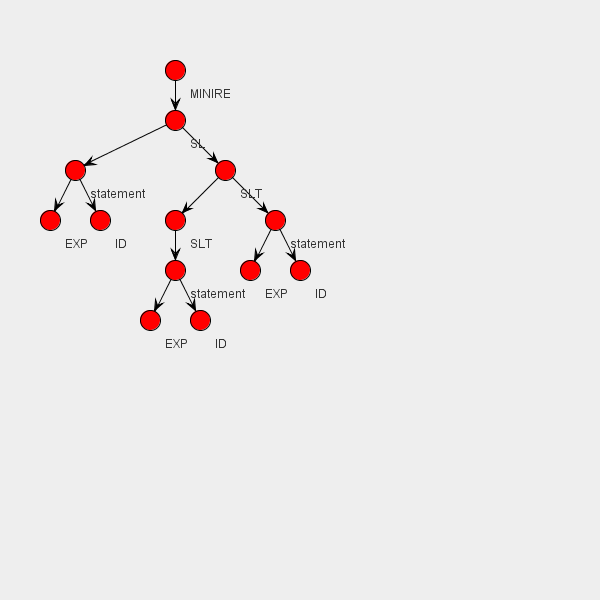
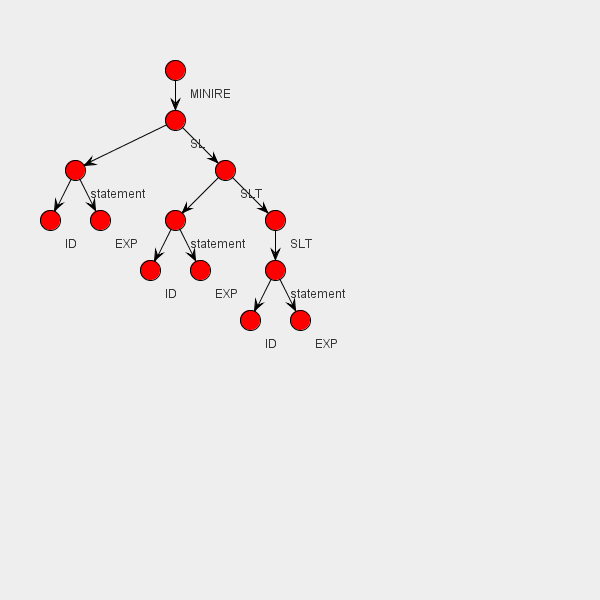
Proper order of children in ast.png

diff --git a/Source/DrawingStuff.java b/Source/DrawingStuff.java
@@ -16,6 +16,8 @@ import org.apache.commons.collections15.Transformer;
 
 import edu.uci.ics.jung.algorithms.layout.TreeLayout;
 import edu.uci.ics.jung.graph.DelegateForest;
+import edu.uci.ics.jung.graph.DelegateTree;
+import edu.uci.ics.jung.graph.DirectedOrderedSparseMultigraph;
 import edu.uci.ics.jung.visualization.BasicVisualizationServer;
 import edu.uci.ics.jung.visualization.VisualizationImageServer;
 import edu.uci.ics.jung.visualization.VisualizationViewer;
@@ -31,10 +33,10 @@ public class DrawingStuff {
 	 * @param ast
 	 */
 	public static void drawAST(Node ast, String filename) {
-		DelegateForest<Node, Integer> graph = new DelegateForest<Node,Integer>();
-		graph.addVertex(ast);
-		buildGraph(graph,ast);
-		TreeLayout<Node, Integer> layout = new TreeLayout<Node, Integer>(graph);
+		DelegateTree<Node, Integer> tree = new DelegateTree<Node,Integer>(new DirectedOrderedSparseMultigraph<Node, Integer>());
+		tree.setRoot(ast);
+		buildGraph(tree,ast);
+		TreeLayout<Node, Integer> layout = new TreeLayout<Node, Integer>(tree);
 		
 		 VisualizationViewer<Node, Integer> vv = new VisualizationViewer<Node,Integer>(layout, new Dimension(600,600));
 		 
@@ -65,17 +67,17 @@ public class DrawingStuff {
 //            }
 //        });
 //		vv.getRenderContext().setArrowFillPaintTransformer(new ConstantTransformer(Color.lightGray));
+		
 	}
 
-	private static void buildGraph(DelegateForest<Node, Integer> graph,
+	private static void buildGraph(DelegateTree<Node, Integer> tree,
 			Node node) {
-		System.out.println("VERTEX:"+node.name);
+//		System.out.println("VERTEX:"+node.name);
 		for (Node child : node.children) {
 			if (child != null) {
-				System.out.println("CHILD:"+child.name);
-				graph.addVertex(child);
-				graph.addEdge(i++, node, child);
-				buildGraph(graph, child); // Recurse
+//				System.out.println("CHILD:"+child.name);
+				tree.addChild(i++, node, child);
+				buildGraph(tree, child); // Recurse
 			}
 		}
 	}
